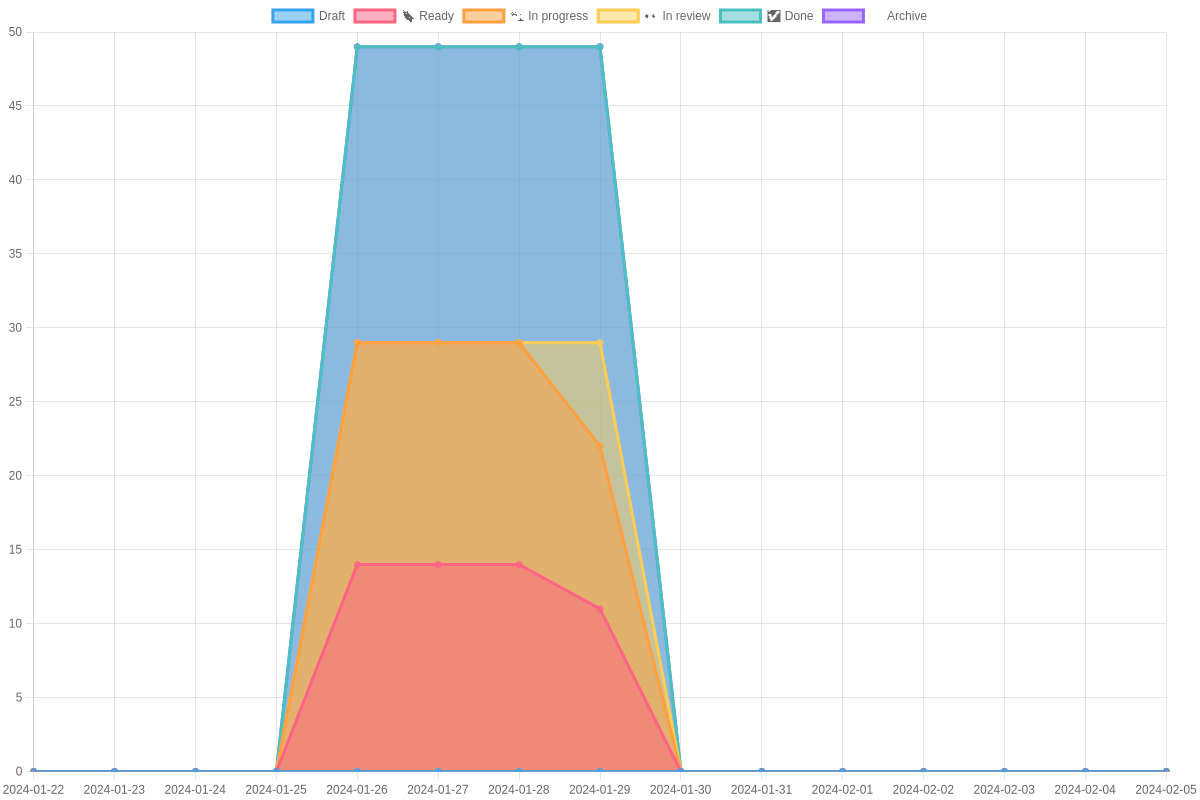
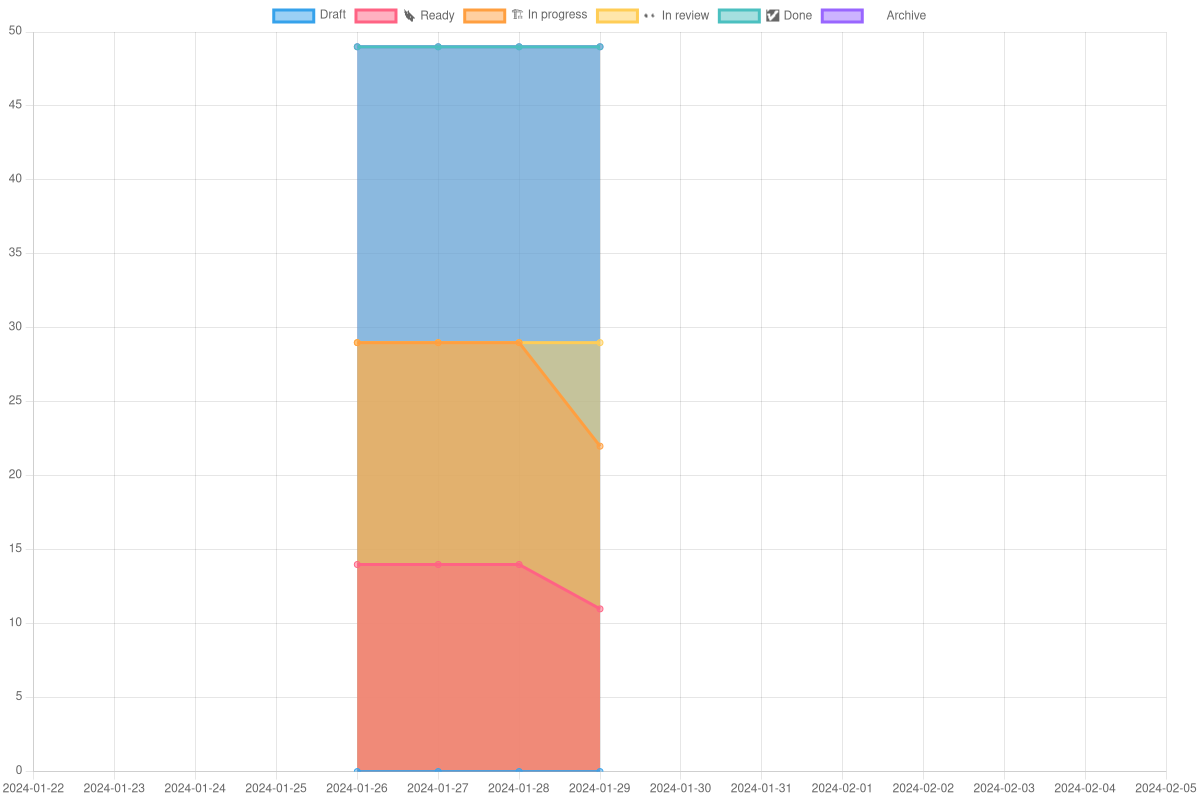
Don't draw non existing datasets

diff --git a/src/burn.ts b/src/burn.ts
@@ -20,7 +20,7 @@ export const updateBurnDown = async (runId: string, stati: Field[], iteration: I
       labels.push(label)
       const loadedData: GraphDataset[] = readJsonFile(`stats/${name}/burn_down_data/`, `${team}_${label}`)
       coreBurnDatasets.forEach((dataset, index) => {
-        dataset.data.push(loadedData?.at(index)?.data?.at(0) ?? 0)
+        dataset.data.push(loadedData?.at(index)?.data?.at(0) ?? undefined)
       })
     }
     await render(labels, coreBurnDatasets, {
